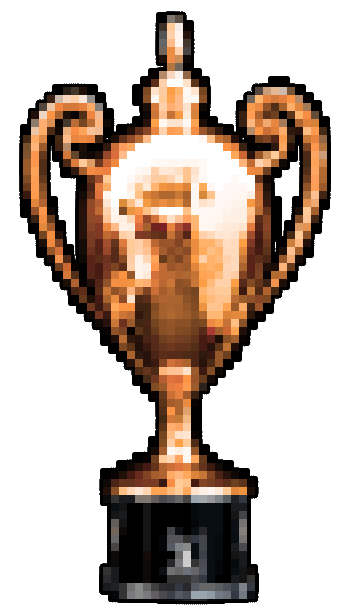
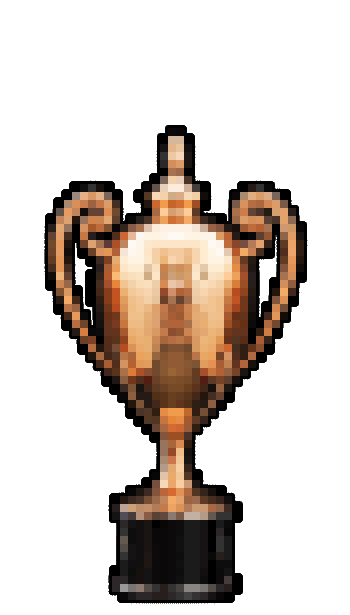
Trophys updated. improving results page

diff --git a/app/assets/stylesheets/components/_empty_divs.scss b/app/assets/stylesheets/components/_empty_divs.scss
@@ -9,3 +9,7 @@
 .gp-empty {
   height: 10px;
 }
+
+.results-empty {
+  height: 10px;
+}

diff --git a/app/controllers/races_controller.rb b/app/controllers/races_controller.rb
@@ -78,18 +78,8 @@ class RacesController < ApplicationController
   def results
     gp
     @race.status = "Finished"
-
+    @team_id = @race.team_id
     @sorted_race_results = @start_race.sort_by { |(_, lap_times)| lap_times.sum { |lt| lt[:lap_time] } }
-    @team_a_id = 1
-    @team_b_id = 2
-    @team_c_id = 3
-    @team_d_id = 4
-    @team_e_id = 5
-    @team_f_id = 6
-    @team_g_id = 7
-    @team_h_id = 8
-    @team_i_id = 9
-    @team_j_id = 10
   end
 
   private
